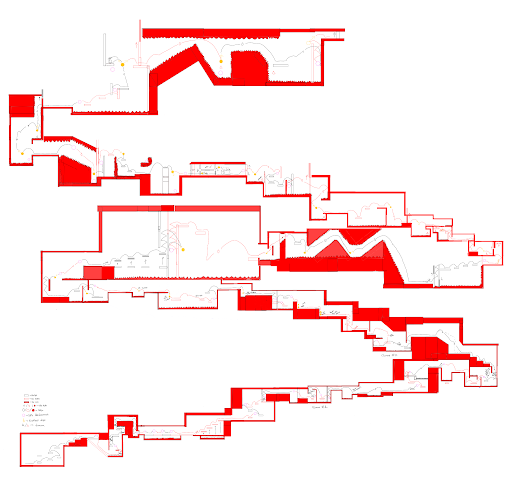
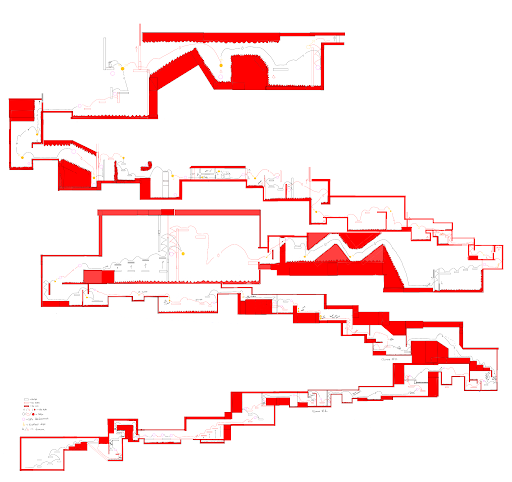
Apart HTML Done!

diff --git a/apart.html b/apart.html
@@ -187,7 +187,7 @@
         <div class="row">
             <div class="about-col">
                 <p>In this point in time, we started doing playtests, and user data collection. That data was oriented to help us detect chokepoints across the levels, and understand why players were struggling in those zones.  <br><br>
-                   We detected multiple chokepoints across all challenges, and the main takeaway from the data collection was that the progression of the game was too steep. <br> This was mainly due to the fact that I was trying to make the levels hard, but instead I made them unfair and frustrating by not giving enough time to the player to understand the mechanics they were playing with and not giving them enough margin to complete the challenges sucesfully.
+                   We detected multiple chokepoints across all challenges, and the main takeaway from the data collection was that player's didn't understand the dynamics of each mechanic, and thus didn't know how to properly use those to their advantage. <br> This was mainly due to the fact that I was trying to make the levels hard, but instead I made them unfair and frustrating by not giving enough time to the player to understand the mechanics they were playing with and not giving them enough margin to complete the challenges sucesfully.
                  
                 </p>
             </div>
@@ -203,22 +203,28 @@
             </div>
             <div class="about-col"> 
                 <h1>Beta</h1>
-                <p> Thanks to previous work done on the Prototype, in the Alpha I put a lot more effort into making the all levels feel more organic and coherent with each other <br><br>
-                    This cohereness and organicness can be seen on the cadence scheme of the level.  We can see that from the get go the mechanics relate a lot more to each other across challenges, as we can see across all parts of the scheme. <br><br>There are still remenants of the mechanic boxiness, though, as we can see on the second and third part of the scheme. A part that I will have to work more on in future iterations.
+                <p> After gathering all the User Data that came from the Alpha testing, I got to work into the new levels for the Beta.
+                    The main things I had to correct were the steep curve of difficulty, and the little time players had to get used to the new mechanics, to get rid of the unfairness of the game.
                     <br><br>
+                    This was achieved by dividing the difficulty into more levels, enlongating the process of introducing the mechanic, showing clearly to the player the different dynamics of each mechanic, giving time to the player to properly understand how to use them together to surpass new challenges. 
+                     <br><br>
+                    With this version of the levels, we embraced the Platforming a lot more, pursuing a faster pace for the game. We still find slower paced levels throughout the game, but these are present to give a moment of calmness and rest to the player, resetting the pace of the gameplay and allowing us to fit introductory levels with ease. We can find these after climatic challenges, where safe points are not present, challenging the player to it's current limits. 
+                    <br><br>
+                    
                       
                 </p>
             </div>
         </div>
         <div class="row">
             <div class="about-col">
-                <p>In this point in time, we started doing playtests, and user data collection. That data was oriented to help us detect chokepoints across the levels, and understand why players were struggling in those zones.  <br><br>
-                   We detected multiple chokepoints across all challenges, and the main takeaway from the data collection was that the progression of the game was too steep. <br> This was mainly due to the fact that I was trying to make the levels hard, but instead I made them unfair and frustrating by not giving enough time to the player to understand the mechanics they were playing with and not giving them enough margin to complete the challenges sucesfully.
+                <p>Breaking down the dynamics into different levels also helped me making the progression more organic. This was achieved by having the dynamics relate to eachother and have them present across multiple levels.   <br><br>
+                   As we can see on the Cadence Scheme, made from the first 11 levels of the game, the different mechanics do relate to each other across challenges, as all the mechanics that the player currently knows will appear on the challenges that he faces next. <br>
+                    This helped me make the player feel that, even though the challenge was new to them, there were elements that were familiar; elements that helped them get a vague idea of what to do to surpass the challenge.
                  
                 </p>
             </div>
             <div class="about-col">
-                <img src="images/apart/cadenciabeta.png">
+                <img src="images/apart/cadenciabeta2.png">
             </div>
         </div>
 </section>
